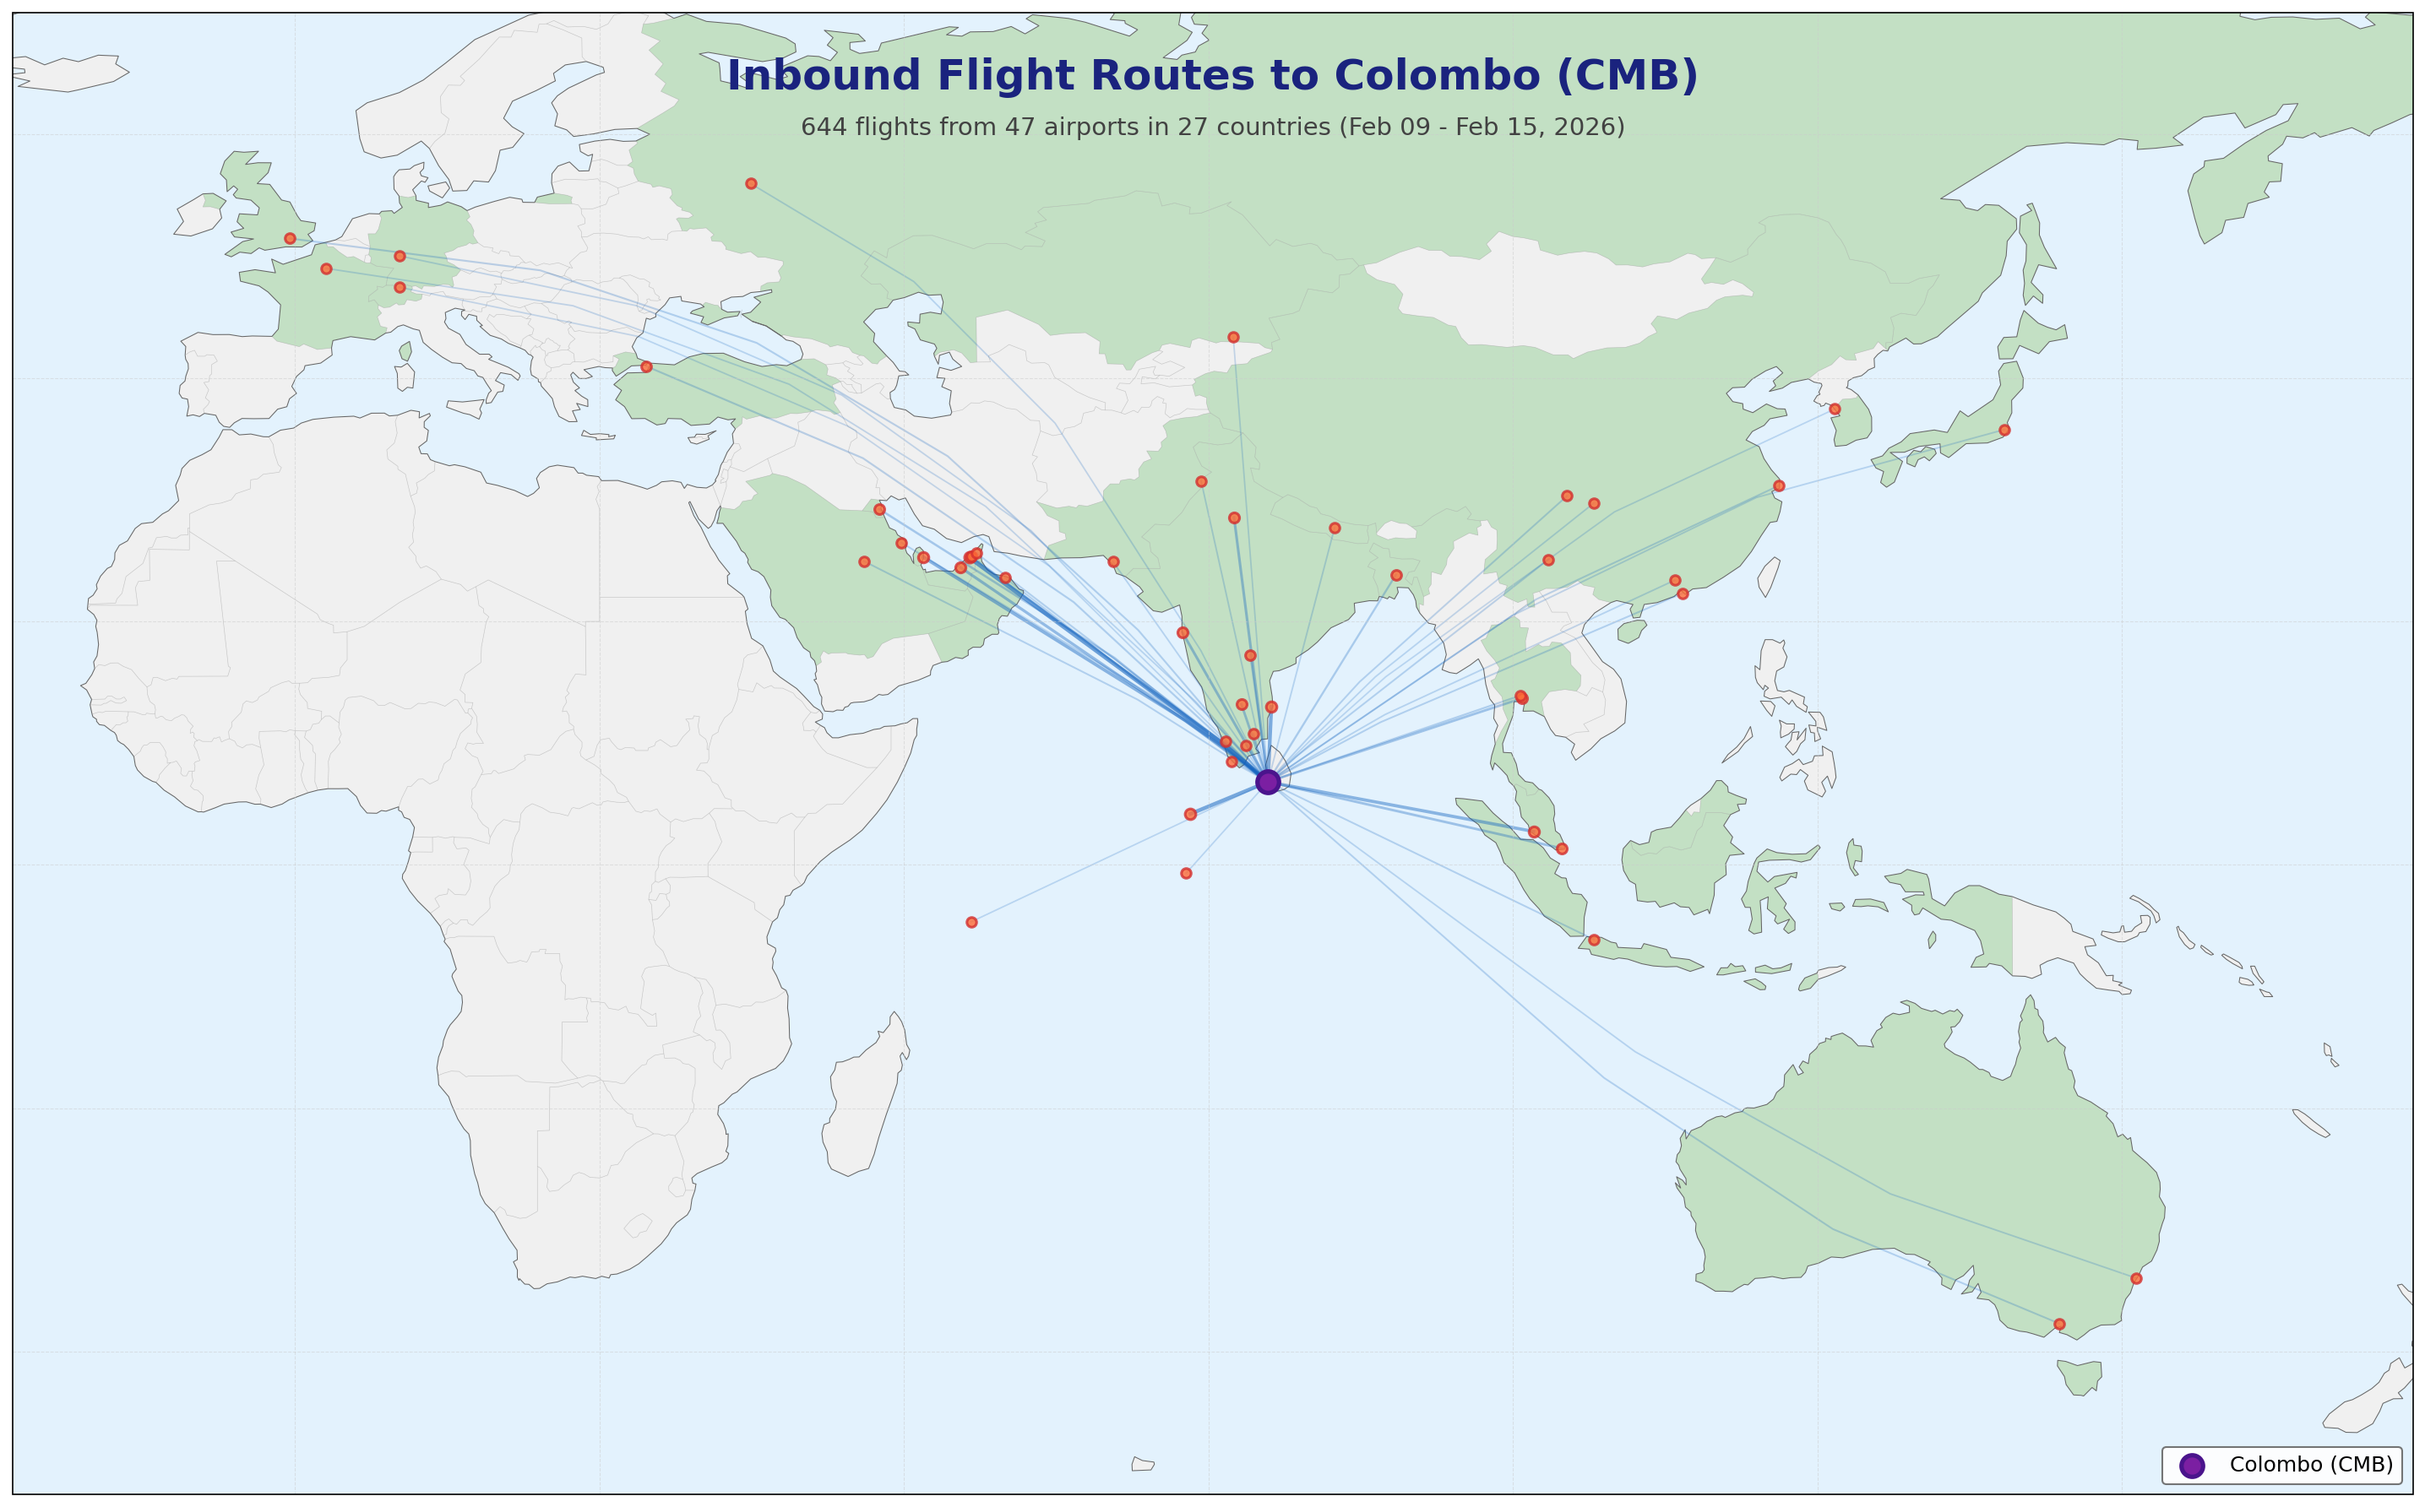
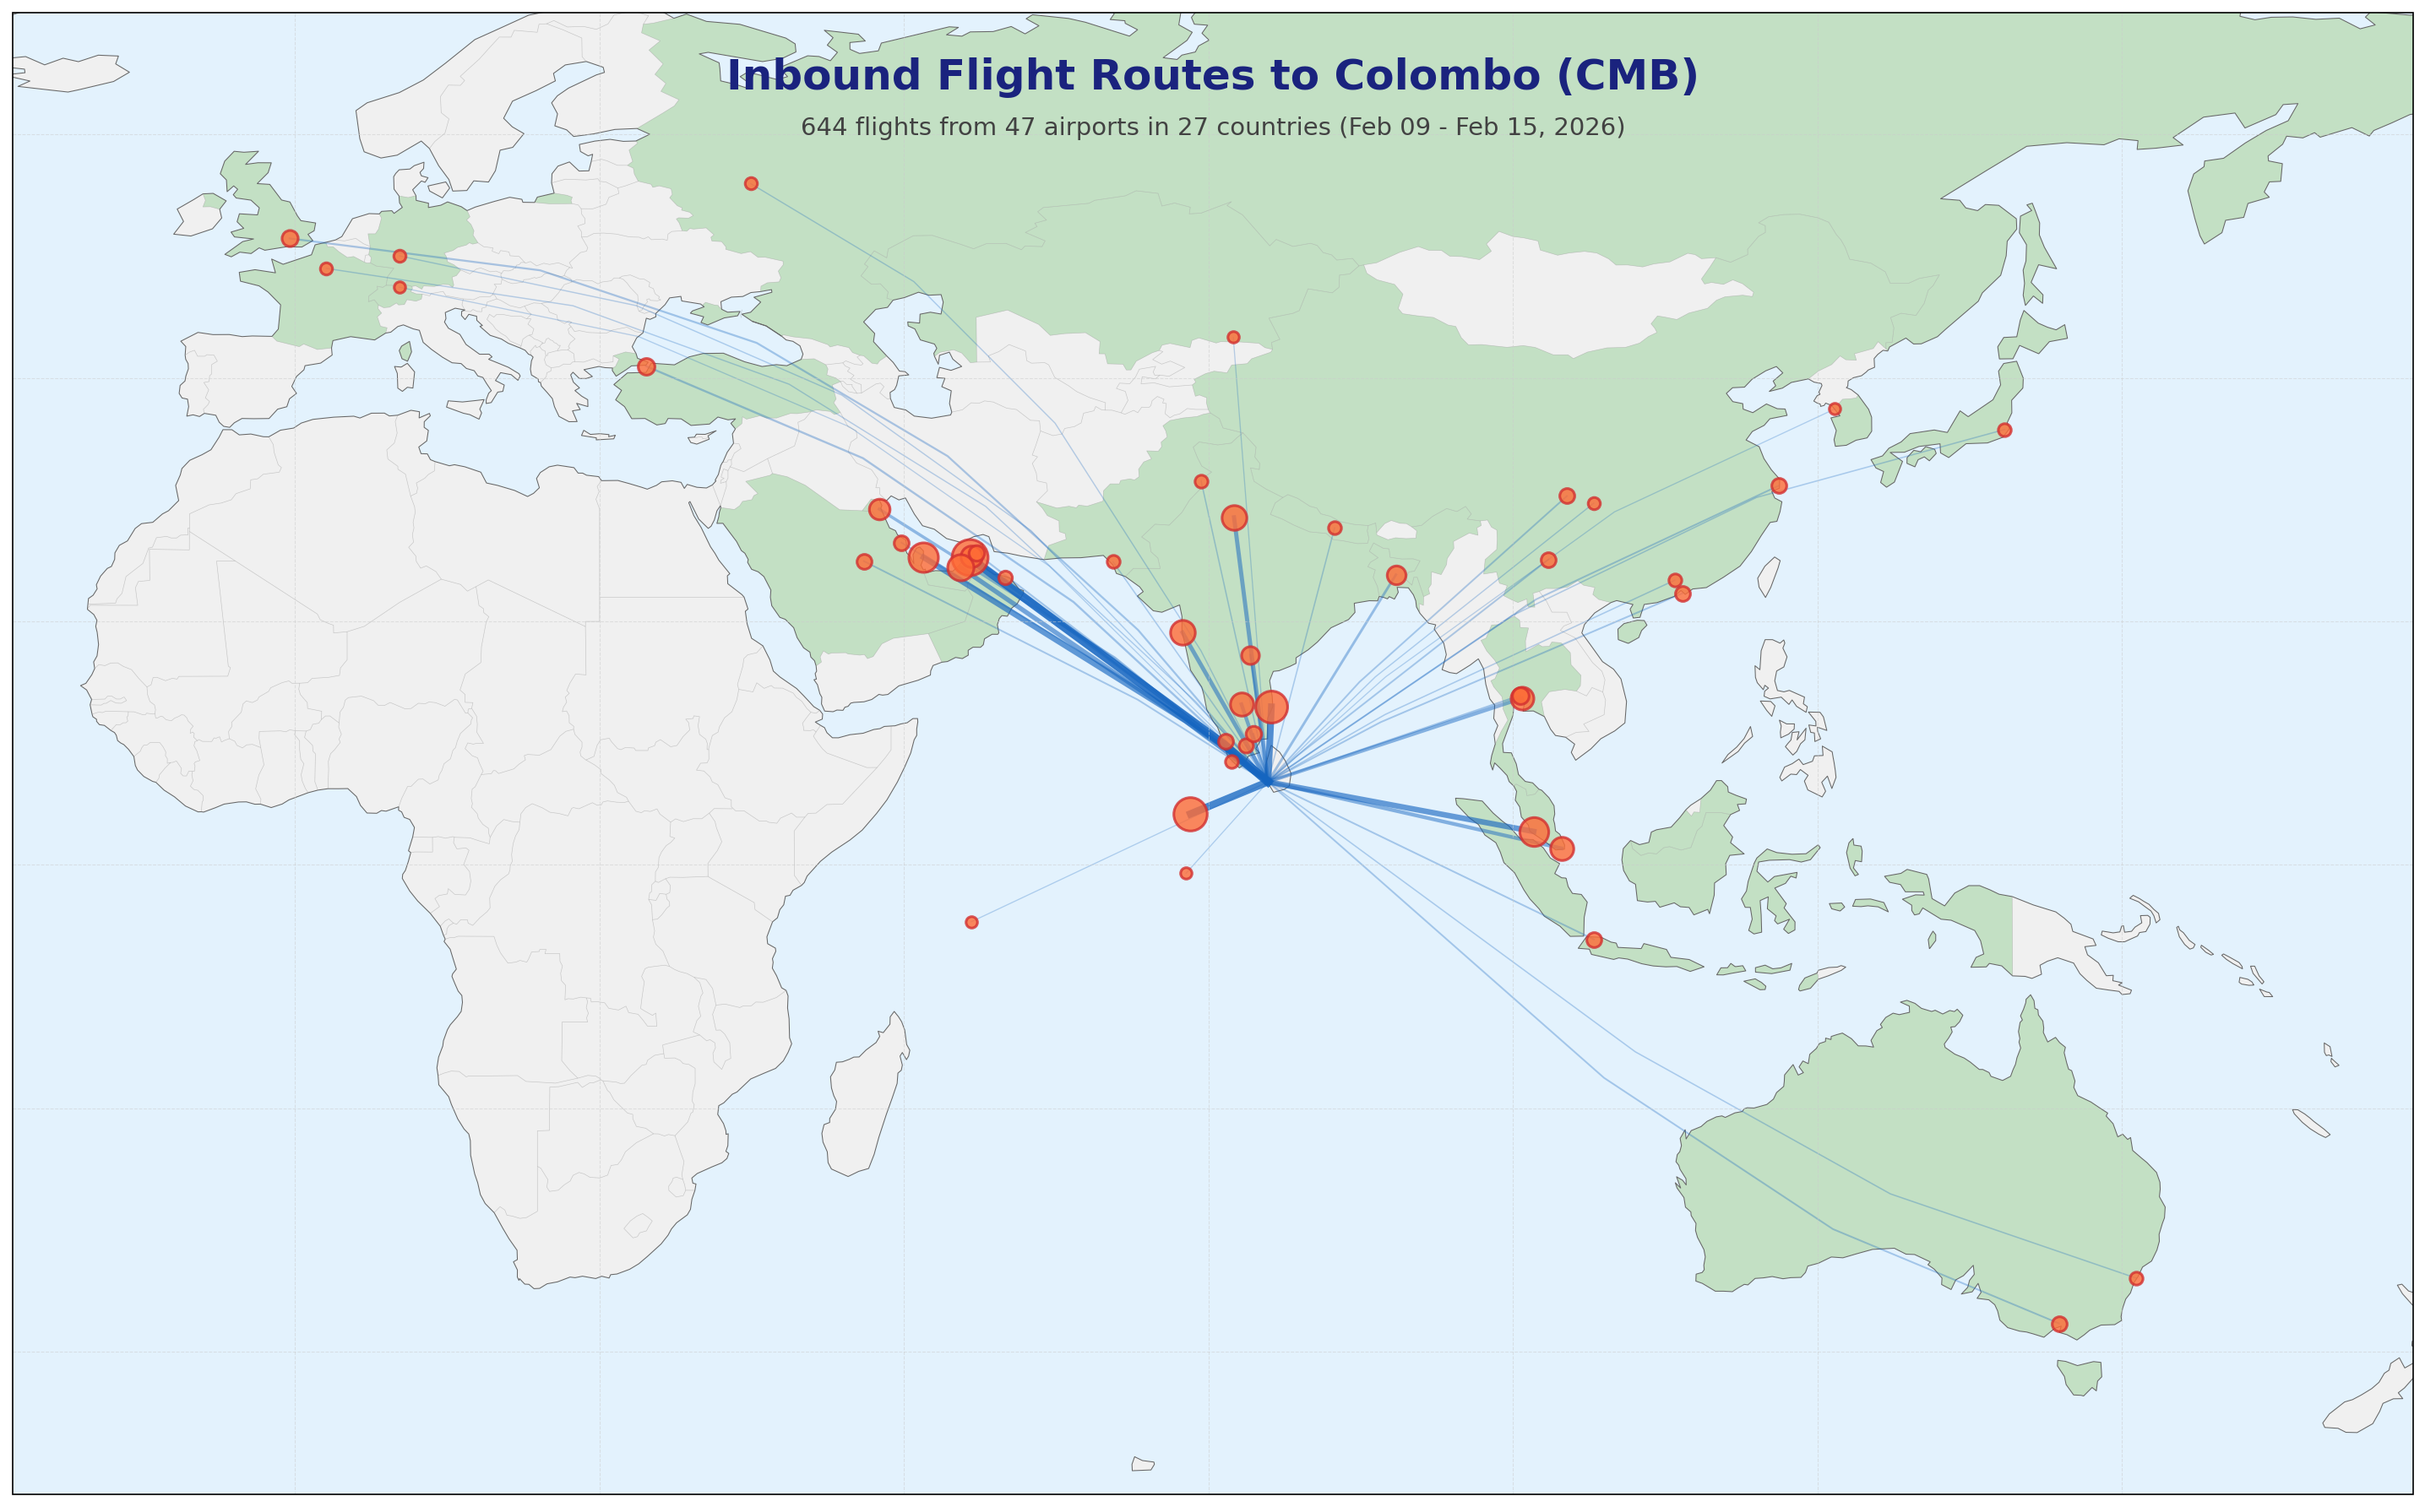
fix: Update flight map visualization parameters for better scaling and clarity

diff --git a/src/flights/FlightMap.py b/src/flights/FlightMap.py
@@ -131,8 +131,9 @@ class FlightMap:
         # Draw routes
         for airport_name, lat, lon, count in airports:
             # Draw line from airport to Colombo (great circle)
-            alpha = min(0.2 + (count / 100) * 0.6, 0.7)
-            linewidth = min(0.8 + (count / 40), 3.0)
+            # Scale line thickness and opacity based on flight volume
+            alpha = min(0.25 + (count / 70) * 0.65, 0.9)
+            linewidth = min(0.5 + (count / 15), 5.5)
 
             ax.plot(
                 [lon, self.CMB_COORDS[1]],
@@ -144,8 +145,8 @@ class FlightMap:
                 zorder=2,
             )
 
-            # Draw origin airport marker
-            size = min(30 + (count / 8), 150)
+            # Draw origin airport marker - scale size based on flight volume
+            size = min(30 + (count * 6), 500)
             ax.scatter(
                 lon,
                 lat,
@@ -157,20 +158,6 @@ class FlightMap:
                 transform=ccrs.PlateCarree(),
                 zorder=3,
             )
-
-        # Draw Colombo marker (circle with distinct color)
-        ax.scatter(
-            self.CMB_COORDS[1],
-            self.CMB_COORDS[0],
-            s=150,
-            color="#7b1fa2",
-            marker="o",
-            edgecolors="#4a148c",
-            linewidths=2.5,
-            transform=ccrs.PlateCarree(),
-            zorder=4,
-            label="Colombo (CMB)",
-        )
 
         # Add title and labels
         ax.text(
@@ -192,7 +179,9 @@ class FlightMap:
             max_time = max(f["ut_arrival_time"] for f in self.flights)
             start_date = datetime.fromtimestamp(min_time, sl_tz)
             end_date = datetime.fromtimestamp(max_time, sl_tz)
-            date_range = f"{start_date.strftime('%b %d')} - {end_date.strftime('%b %d, %Y')}"
+            date_range = f"{
+                start_date.strftime('%b %d')} - {
+                end_date.strftime('%b %d, %Y')}"
         else:
             date_range = "N/A"
 
@@ -205,15 +194,6 @@ class FlightMap:
             color="#424242",
             ha="center",
             va="top",
-        )
-
-        # Add legend
-        ax.legend(
-            loc="lower right",
-            fontsize=12,
-            facecolor="white",
-            edgecolor="#666666",
-            framealpha=0.9,
         )
 
         # Add gridlines

diff --git a/src/flights/ReadMe.py b/src/flights/ReadMe.py
@@ -104,7 +104,9 @@ class ReadMe:
         origins = sorted(
             {f["airport_name"] for f in self.flights if f["airport_name"]}
         )
-        airlines = sorted({f["airline"] for f in self.flights if f["airline"]})
+        airlines = sorted(
+            {f["airline"] for f in self.flights if f["airline"]}
+        )
         countries = sorted(
             {f["country_name"] for f in self.flights if f["country_name"]}
         )
@@ -144,7 +146,9 @@ class ReadMe:
             max_time = max(f["ut_arrival_time"] for f in self.flights)
             start_date = datetime.fromtimestamp(min_time, sl_tz)
             end_date = datetime.fromtimestamp(max_time, sl_tz)
-            date_range = f"{start_date.strftime('%Y-%m-%d')} to {end_date.strftime('%Y-%m-%d')}"
+            date_range = f"{
+                start_date.strftime('%Y-%m-%d')} to {
+                end_date.strftime('%Y-%m-%d')}"
         else:
             date_range = "N/A"
 

diff --git a/README.md b/README.md
@@ -1,6 +1,6 @@
 # Air Travel in 🇱🇰 Sri Lanka (lk_air_travel)
 
-![LastUpdated](https://img.shields.io/badge/last_updated-2026--02--11_19:19:13-green)
+![LastUpdated](https://img.shields.io/badge/last_updated-2026--02--11_19:36:09-green)
 
 ![Flight Map](images/flight_map.png)
 
